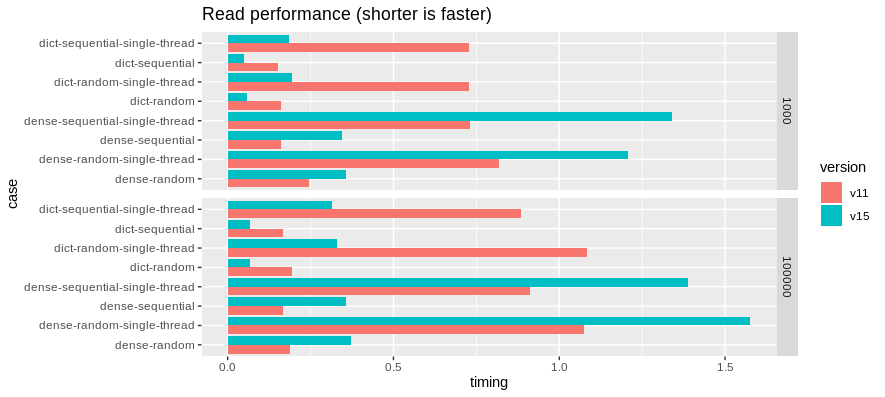
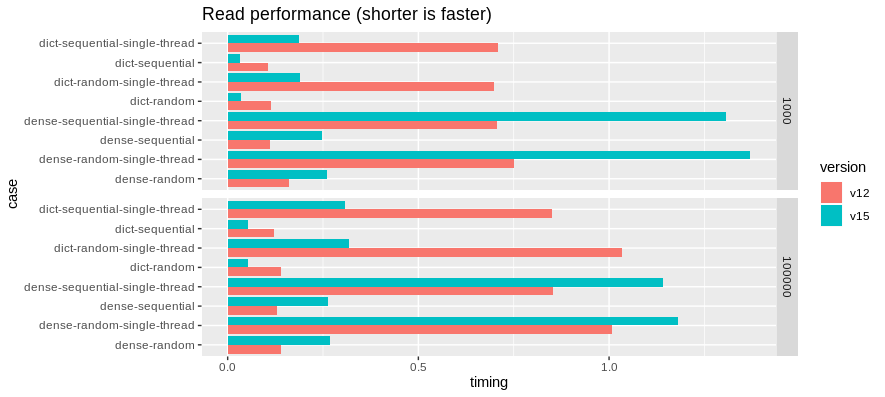
Review comments, update benchmarks

diff --git a/_posts/2019-09-03-faster-strings-cpp-parquet.md b/_posts/2019-09-03-faster-strings-cpp-parquet.md
@@ -1,7 +1,7 @@
 ---
 layout: post
-title: "Faster C++ Apache Parquet performance on string-heavy data coming in Apache Arrow 0.15"
-date: "2019-09-01 00:00:00 -0600"
+title: "Faster C++ Apache Parquet performance on dictionary-encoded string data coming in Apache Arrow 0.15"
+date: "2019-09-04 00:00:00 -0600"
 author: Wes McKinney
 categories: [application]
 ---
@@ -26,21 +26,15 @@ limitations under the License.
 
 We have been implementing a series of optimizations in the Apache Parquet C++
 internals to improve read and write efficiency (both performance and memory
-use) for Arrow columnar binary and string types, including native support for
+use) for Arrow columnar binary and string data, with new "native" support for
 Arrow's dictionary types. This should have a big impact on users of the C++,
 MATLAB, Python, R, and Ruby interfaces to Parquet files.
 
-We discuss the work that was done and show benchmarks comparing Arrow 0.11.0
-(released in October, 2018) with the current development version (to be
-released soon as Arrow 0.15.0).
+This post reviews work that was done and shows benchmarks comparing Arrow
+0.12.1 with the current development version (to be released soon as Arrow
+0.15.0).
 
 # Summary of work
-
-One of the challenges of developing the Parquet C++ library is that we
-maintain low-level read and write APIs that do not involve the Arrow columnar
-data structures. So we have had to take care to do Arrow-related optimizations
-without impacting non-Arrow Parquet users, which includes database systems like
-Clickhouse and Vertica.
 
 One of the largest and most complex optimizations involves encoding and
 decoding Parquet files' internal dictionary-encoded data streams to and from
@@ -62,6 +56,12 @@ Some of the particular JIRA issues related to this work include:
 - Supporting changing dictionaries ([ARROW-3144][6])
 - Internal IO optimizations and improved raw `BYTE_ARRAY` encoding performance
   ([ARROW-4398][7])
+
+One of the challenges of developing the Parquet C++ library is that we
+maintain low-level read and write APIs that do not involve the Arrow columnar
+data structures. So we have had to take care to do Arrow-related optimizations
+without impacting non-Arrow Parquet users, which includes database systems like
+Clickhouse and Vertica.
 
 # Background: how Parquet files do dictionary encoding
 
@@ -101,8 +101,8 @@ the indices would be encoded like
  bit-packed-run=[1]]
 ```
 
-The full details of the rle-bitpacking encoding are found in the Parquet
-specification.
+The full details of the rle-bitpacking encoding are found in the [Parquet
+specification][10].
 
 When writing a Parquet file, most implementations will use dictionary encoding
 to compress a column until the dictionary itself reaches a certain size
@@ -116,6 +116,8 @@ diagram:
      alt="Internal ColumnChunk structure"
      width="80%" class="img-responsive">
 </div>
+
+# Faster reading and writing of dictionary-encoded data
 
 When reading a Parquet file, the dictionary-encoded portions are usually
 materialized to their non-dictionary-encoded form, causing binary or string
@@ -144,8 +146,6 @@ We pursued several avenues to help with this:
 All of these things together have produced some excellent performance results
 that we will detail below.
 
-# Pushing Arrow columnar read and write lower in the Parquet stack
-
 The other class of optimizations we implemented was removing an abstraction
 layer between the low-level Parquet column data encoder and decoder classes and
 the Arrow columnar data structures. This involves:
@@ -160,7 +160,7 @@ dictionary-encoded data, they are still meaningful in real-world applications.
 
 # Performance Benchmarks
 
-We run some benchmarks comparing Arrow 0.11.1 with the current master
+We ran some benchmarks comparing Arrow 0.12.1 with the current master
 branch. We construct two kinds of Arrow tables with 10 columns each:
 
 * "Low cardinality" and "high cardinality" variants. The "low cardinality" case
@@ -168,7 +168,7 @@ branch. We construct two kinds of Arrow tables with 10 columns each:
   100,000 unique values
 * "Dense" (non-dictionary) and "Dictionary" variants
 
-[Click here is the full benchmark script.][11]
+[See the full benchmark script.][11]
 
 We show both single-threaded and multithreaded read performance. The test
 machine is an Intel i9-9960X using gcc 8.3.0 (on Ubuntu 18.04) with 16 physical
@@ -182,9 +182,9 @@ First, the writing benchmarks:
      width="80%" class="img-responsive">
 </div>
 
-Here we note that writing `arrow::DictionaryArray` is dramatically faster due
-to the optimizations described above. We have achieved a small improvement in
-writing dense (non-dictionary) binary arrays.
+Writing `arrow::DictionaryArray` is dramatically faster due to the
+optimizations described above. We have achieved a small improvement in writing
+dense (non-dictionary) binary arrays.
 
 Then, the reading benchmarks:
 
@@ -196,9 +196,9 @@ Then, the reading benchmarks:
 
 Here, similarly reading `DictionaryArray` directly is many times faster.
 
-In these benchmarks we note that reading the dense binary data is slower in
-master branch than in version 0.11.0, so we will need to do some profiling and
-see what we can do to bring read performance back inline. Optimizing the dense
+These benchmarks show that reading the dense binary data is slower in the
+master branch than in version 0.12.1, so we will need to do some profiling and
+see what we can do to bring read performance back in line. Optimizing the dense
 read path has not been too much of a priority relative to the dictionary read
 path in this work.
 
@@ -208,9 +208,13 @@ In addition to faster performance, reading columns as dictionary-encoded can
 yield significantly less memory use.
 
 In the `dict-random` case above, we found that the master branch uses 405 MB of
-RAM at peak while loading a 152 MB dataset. In v0.11.1, loading the same
+RAM at peak while loading a 152 MB dataset. In v0.12.1, loading the same
 Parquet file without the accelerated dictionary support uses 1.94 GB of peak
 memory while the resulting non-dictionary table occupies 1.01 GB.
+
+Note that we had a memory overuse bug in versions 0.14.0 and 0.14.1 fixed in
+ARROW-6060, so if you are hitting this bug you will want to upgrade to 0.15.0
+as soon as it comes out.
 
 # Conclusion
 
